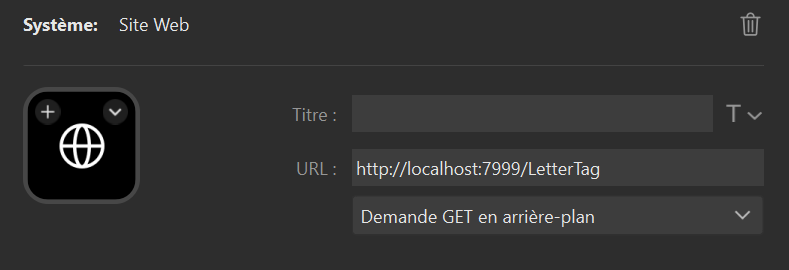
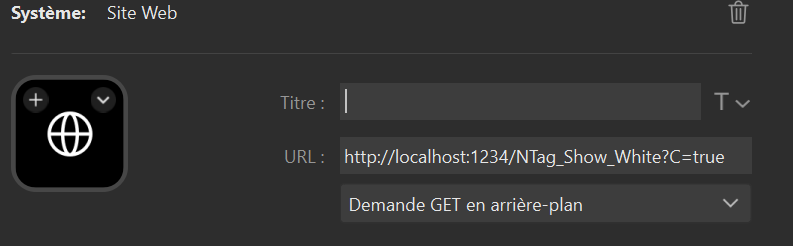
rest api complet

diff --git a/src/doc/readme_StreamDeck.md b/src/doc/readme_StreamDeck.md
@@ -11,57 +11,57 @@ Dans StreamlDeck, il suffit d'appeler une adresse URL précise :
 ## Pour les outils spécifiques au jeu de go
 
 - /NTag_Show_White  
-  Description (fr.txt) : Pierres numérotées (première pierre blanche)  
-  Exemple : curl "http://localhost:1234/NTag_Show_White"  
-  StreamDeck : HTTP GET -> URL = http://localhost:1234/NTag_Show_White
+  Description : Pierres numérotées (première pierre blanche)  
+  "http://localhost:1234/NTag_Show_White"  
 
 - /NTag_Show_Black  
-  Description (fr.txt) : Pierres numérotées (première pierre noire)  
-  Exemple : curl "http://localhost:1234/NTag_Show_Black"
+  Description : Pierres numérotées (première pierre noire)  
+  "http://localhost:1234/NTag_Show_Black"
 
 - /NTag_Hide_White  
-  Description (fr.txt) : (Ajout de pierres) sans numéros (1ère blanche)  
-  Exemple : curl "http://localhost:1234/NTag_Hide_White"
+  Description : Ajout de pierres sans numéros (1ère blanche)  
+  "http://localhost:1234/NTag_Hide_White"
 
 - /NTag_Hide_Black  
-  Description (fr.txt) : (Ajout de pierres) sans numéros (1ère noire)  
-  Exemple : curl "http://localhost:1234/NTag_Hide_Black"
+  Description : Ajout de pierres sans numéros (1ère noire)  
+  "http://localhost:1234/NTag_Hide_Black"
 
 - /HandFilledWhite  
-  Description (fr.txt) : Ajout d'une zone blanche  
-  Exemple : curl "http://localhost:1234/HandFilledWhite"
+  Description : Ajout d'une zone blanche  
+  "http://localhost:1234/HandFilledWhite"
 
 - /HandFilledBlack  
-  Description (fr.txt) : Ajout d'une zone noire  
-  Exemple : curl "http://localhost:1234/HandFilledBlack"
+  Description : Ajout d'une zone noire  
+  "http://localhost:1234/HandFilledBlack"
 
 - /LetterTag  
-  Description (fr.txt) : Ajout de lettres (A, B, C, ...)  
-  Exemple : curl "http://localhost:1234/LetterTag"
+  Description : Ajout de lettres (A, B, C, ...)  
+  "http://localhost:1234/LetterTag"
 
 - /SquareTag  
-  Description (fr.txt) : Ajout de carrés  
-  Exemple : curl "http://localhost:1234/SquareTag"
+  Description : Ajout de carrés  
+  "http://localhost:1234/SquareTag"
 
 - /TriangleTag  
-  Description (fr.txt) : Ajout de triangles  
-  Exemple : curl "http://localhost:1234/TriangleTag"
+  Description : Ajout de triangles  
+  "http://localhost:1234/TriangleTag"
 
 - /CircleTag  
-  Description (fr.txt) : Ajouts de cercles  
-  Exemple : curl "http://localhost:1234/CircleTag"
+  Description : Ajouts de cercles  
+  "http://localhost:1234/CircleTag"
 
 - /CrossTag  
-  Description (fr.txt) : Ajout de croix  
-  Exemple : curl "http://localhost:1234/CrossTag"
+  Description : Ajout de croix  
+  "http://localhost:1234/CrossTag"
 
-Notes :
-- Pour les /NTag_* vous pouvez ajouter ?C=true pour forcer le nettoyage des tracés existants avant application (paramètre C repris dans l'implémentation REST).
-- Ces descriptions proviennent des clés de langue dans ppInk/lang/fr.txt (OptionsTagOpacityPerc, OptionsGoStrokeWidth, etc.) et servent à documenter l'usage / but des endpoints.
+Remarques générales
+- Remplacer http://localhost:1234 par l'URL de base configurée dans votre menu Options (onglet Général)
+- Beaucoup d’actions ne fonctionneront pas si l'application n'est pas en mode inking (barre d'outils ouverte) : la réponse sera 409 "Not in Inking mode".
+
 
 ---
 
-## Liste exhaustive des autres endpoints REST disponibles (résumé fonctionnel)
+## Liste des autres endpoints REST disponibles (résumé fonctionnel du fichier APIRest.cs)
 Tous les endpoints acceptent GET ; la plupart exigent que l'application soit en mode inking (sinon réponse 409).
 
 - /Inking
@@ -165,10 +165,6 @@ Tous les endpoints acceptent GET ; la plupart exigent que l'application soit en 
 
 - autres chemins non implémentés -> 404
 
-Remarques générales
-- Remplacer http://localhost:7799 par l'URL de base configurée dans votre __APIRestUrl__ (voir options ou APIRest.GetAddress()).
-- StreamDeck : créez une action HTTP GET pointant sur l'URL correspondante. Pour indiquer un effet visuel sur le bouton (état), vous pouvez appeler périodiquement /CurrentTool ou /Inking et parser le JSON renvoyé.
-- Beaucoup d’actions ne fonctionneront pas si l'application n'est pas en mode inking : la réponse sera 409 "Not in Inking mode".
-- Pour /NTag_* : ajoutez ?C=true si vous voulez forcer l'effacement des tracés existants (comme le comportement "clear" optionnel).
+
 
 ---

diff --git a/readme.md b/readme.md
@@ -22,10 +22,11 @@ Si le goban n'est pas un 19x19, penser à changer dans le menu options : <img sr
 
 
 ## Utilisation
-Les outils sont accessibles par raccourcis clavier, qui peuvent être appelés depuis un StreamDeck). 
+Les outils sont accessibles par raccourcis clavier, qui peuvent être appelés depuis un StreamDeck, ou bien par une API comme expliqué sur la page [Conseils pour StreamDeck](/src/doc/readme_StreamDeck.md)
+
 Les raccourcis sont également paramétrables dans le menu options.
 
-## Disclaimer
+## Avertissement
 Ce fork a été exclusivement réalisé avec l'aide d'une IA, car je ne suis pas du tout développeur de code. 
 
 ## Problèmes connus
